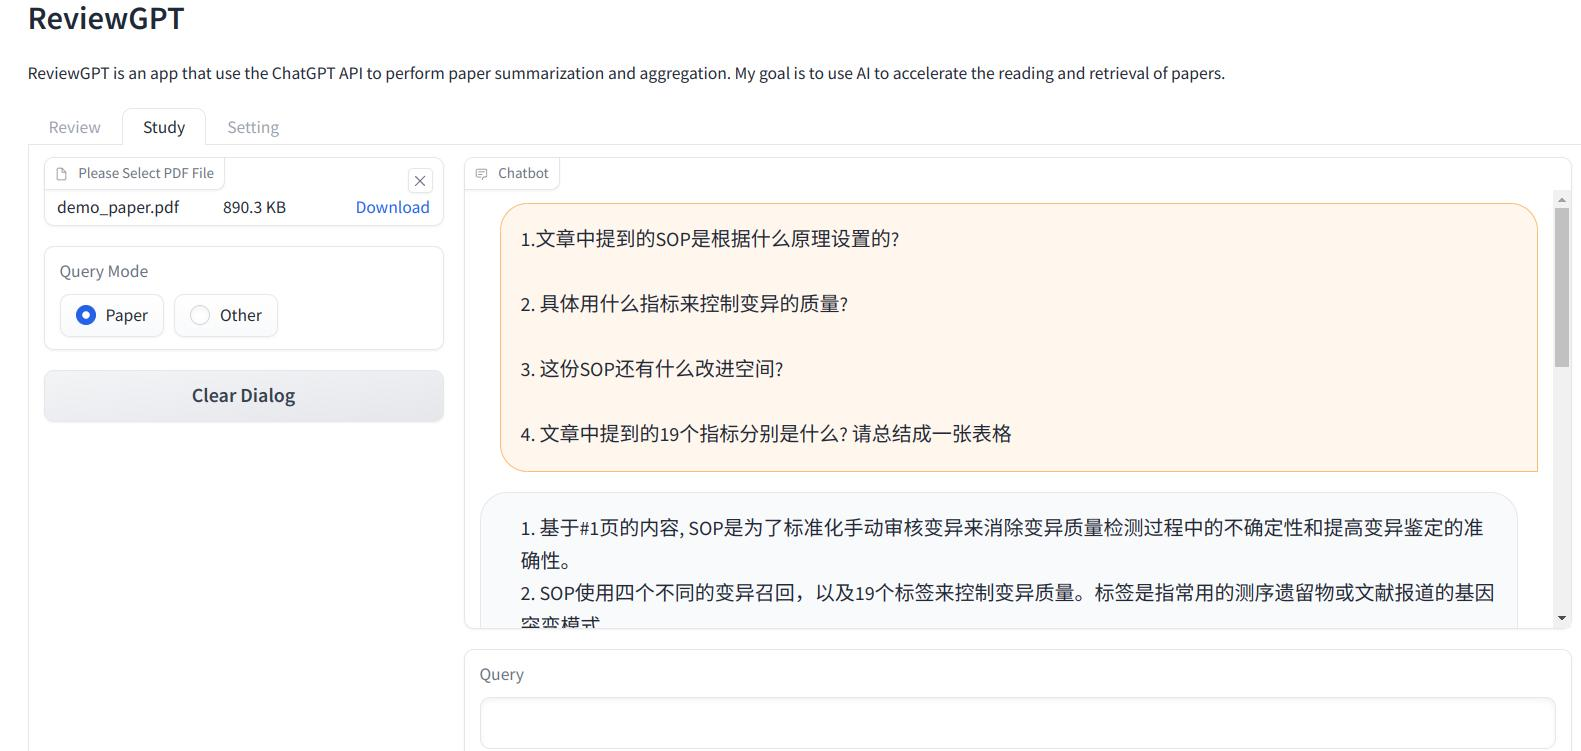
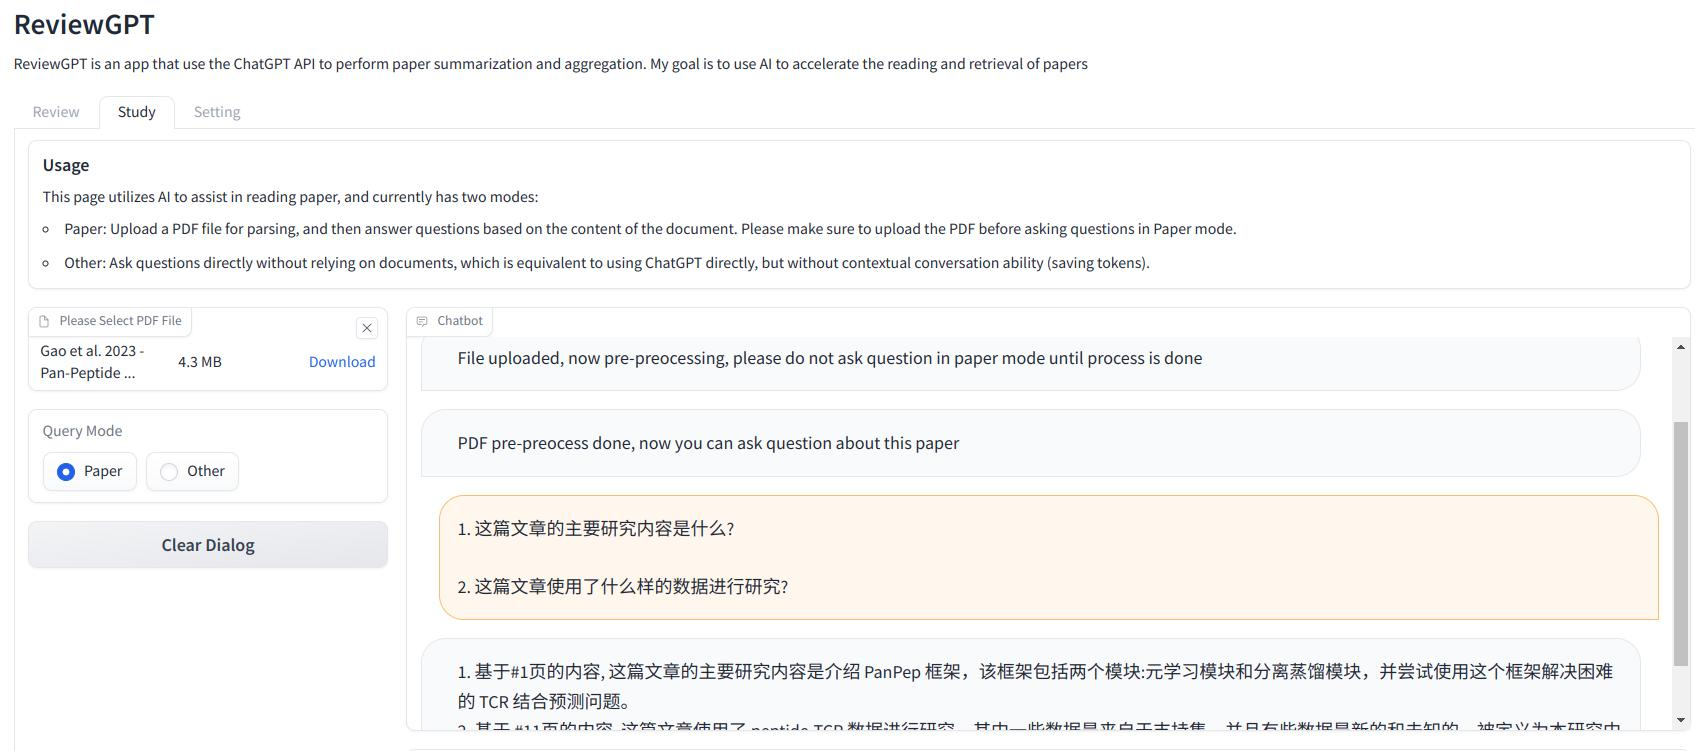
1.将pdf解析从study里抽出, 避免重复进行文章解析 2. 增加pdf上传时的提示, 防止解析未完成时问问题

diff --git a/reviewGPT.py b/reviewGPT.py
@@ -1,6 +1,7 @@
 import gradio as gr
 from datetime import datetime
 from utils import task
+import pandas as pd
 
 try:
     import utils.config as conf
@@ -27,9 +28,65 @@ def load_setting():
     return setting
 
 
+def run_review(input_form, task_choice, prompts, pmids, ris_file, share_settings):
+    '''
+    click触发进行文献阅读
+    '''
+    paper_info = task.get_paper_info(input_form, share_settings['EMAIL'], pmids, ris_file)
+    return task.review(task_choice, paper_info, prompts, share_settings['OPENAI_KEY'], share_settings['REVIEW_MODEL'])
+
+
+def pdf_preprocess(history):
+    '''
+    解析pdf需要一定时间, 因此在对话框中显示
+    提示用户先不要点击页面造成问题(强制措施过后写)
+    '''
+    return history + [[None, 'File uploaded, now pre-preocessing, please do not ask question in paper mode until process is done']] # 第一个字段是输入框
+
+
+def pdf_process(pdf_data, share_settings):
+    '''
+    处理pdf文件为文章数据
+    '''
+    paper_data = task.parse_pdf_info(pdf_data, share_settings['OPENAI_KEY'])
+    return paper_data
+    
+
+def pdf_postprocess(history):
+    '''
+    解析pdf需要一定时间, 因此在对话框中显示
+    提示用户先不要点击页面造成问题(强制措施过后写)
+    '''
+    return history + [[None, 'PDF pre-preocess done, now you can ask question about this paper']] # 第一个字段是输入框
+
+
+def user(user_message, history):
+    '''
+    处理输入框信息
+    '''
+    return "", history + [[user_message, None]] # 第一个字段是输入框
+
+
+def bot(history, paper_data, mode, share_settings):
+    '''
+    根据输入框信息解析后返回处理结果
+    '''
+    question = history[-1][0]
+    if mode == 'Paper':
+        bot_message = task.study(paper_data, question, share_settings['OPENAI_KEY'], share_settings['REVIEW_MODEL'])
+        history[-1][1] = bot_message # 将回复添加到最后
+    elif mode == 'Other':
+        bot_message = task.query(question, share_settings['OPENAI_KEY'], share_settings['REVIEW_MODEL'])
+        history[-1][1] = bot_message # 将回复添加到最后
+    else:
+        raise Exception('Invalid Query Mode')
+    return history
+
+
 # 构建Blocks上下文
 with gr.Blocks() as reviewGPT:
     share_settings = gr.State(load_setting()) # 已经转换成字典了
+    pdf_data = gr.State(pd.DataFrame()) # PDF解析数据
     
     gr.Markdown(load_markdown('Title'))
 
@@ -56,19 +113,13 @@ with gr.Blocks() as reviewGPT:
         start = gr.Button(value='REVIEW START')
         out = gr.Markdown()
 
-        def run_review(input_form, task_choice, prompts, pmids, ris_file, share_settings):
-            '''
-            click触发进行文献阅读
-            '''
-            paper_info = task.get_paper_info(input_form, share_settings['EMAIL'], pmids, ris_file)
-            return task.review(task_choice, paper_info, prompts, share_settings['OPENAI_KEY'], share_settings['REVIEW_MODEL'])
-
         start.click(fn=run_review, inputs=[
             input_form, task_choice, prompts, pmids, ris_file, share_settings
         ], outputs=out)
     
 
     with gr.Tab("Study"): # 文献阅读页面用聊天机器人形式
+        ###### 布局部分 ######
         with gr.Box():
             gr.Markdown(load_markdown('Study'))
         with gr.Row():
@@ -80,29 +131,24 @@ with gr.Blocks() as reviewGPT:
                 clear = gr.Button("Clear Dialog")
 
             with gr.Column(scale=0.8):
-                chatbot = gr.Chatbot().style(height=350)
+                chatbot = gr.Chatbot(
+                    value=[[None, "Hi, I'm a bot to help you read papers, please first upload a pdf file in the left box"]]
+                ).style(height=350)
                 with gr.Row():
                     msg = gr.Textbox(label='Query')
-
-                def user(user_message, history):
-                    return "", history + [[user_message, None]] # 第一个字段是输入框
-
-                def bot(history, pdf_data, mode, share_settings):
-                    question = history[-1][0]
-                    if mode == 'Paper':
-                        bot_message = task.study(pdf_data, question, share_settings['OPENAI_KEY'], share_settings['REVIEW_MODEL'])
-                        history[-1][1] = bot_message # 将回复添加到最后
-                    elif mode == 'Other':
-                        bot_message = task.query(question, share_settings['OPENAI_KEY'], share_settings['REVIEW_MODEL'])
-                        history[-1][1] = bot_message # 将回复添加到最后
-                    else:
-                        raise Exception('Invalid Query Mode')
-                    return history
-
-                msg.submit(user, [msg, chatbot], [msg, chatbot], queue=False).then(
-                    bot, [chatbot, pdf_file, mode, share_settings], chatbot
-                )
-                clear.click(lambda: None, None, chatbot, queue=False)
+            
+            ###### 响应部分 ######
+            pdf_file.change(
+                pdf_preprocess, chatbot, chatbot
+            ).then(
+                pdf_process, [pdf_file, share_settings], pdf_data
+            ).then(
+                pdf_postprocess, chatbot, chatbot
+            )
+            clear.click(lambda: None, None, chatbot, queue=False)
+            msg.submit(user, [msg, chatbot], [msg, chatbot], queue=False).then(# 这里的用于执行下一个动作
+                bot, [chatbot, pdf_data, mode, share_settings], chatbot
+            )
 
 
     with gr.Tab("Setting"):

diff --git a/utils/task.py b/utils/task.py
@@ -79,11 +79,21 @@ def review(task, paper_info, prompts, openai_key, review_model):
         return response['choices'][0]['message']['content']
 
 
-def study(pdf_data, prompts, openai_key, review_model):
-    reviewer = Reviewer(api_key=openai_key, model=review_model)
+def parse_pdf_info(pdf_data, openai_key):
+    '''
+    调用模块解析PDF, 单独放出来, 解析只需要一次
+    '''
     fileHandle = io.BytesIO(pdf_data)
     pdf = PdfFile(file=fileHandle, api_key=openai_key)
     paper_data = pdf.parse_info()
+    return paper_data
+
+
+def study(paper_data, prompts, openai_key, review_model):
+    '''
+    根据解析好的PDF数据进行阅读
+    '''
+    reviewer = Reviewer(api_key=openai_key, model=review_model)
     response = reviewer.study(prompts, paper_data)
     return response['choices'][0]['message']['content']
 
